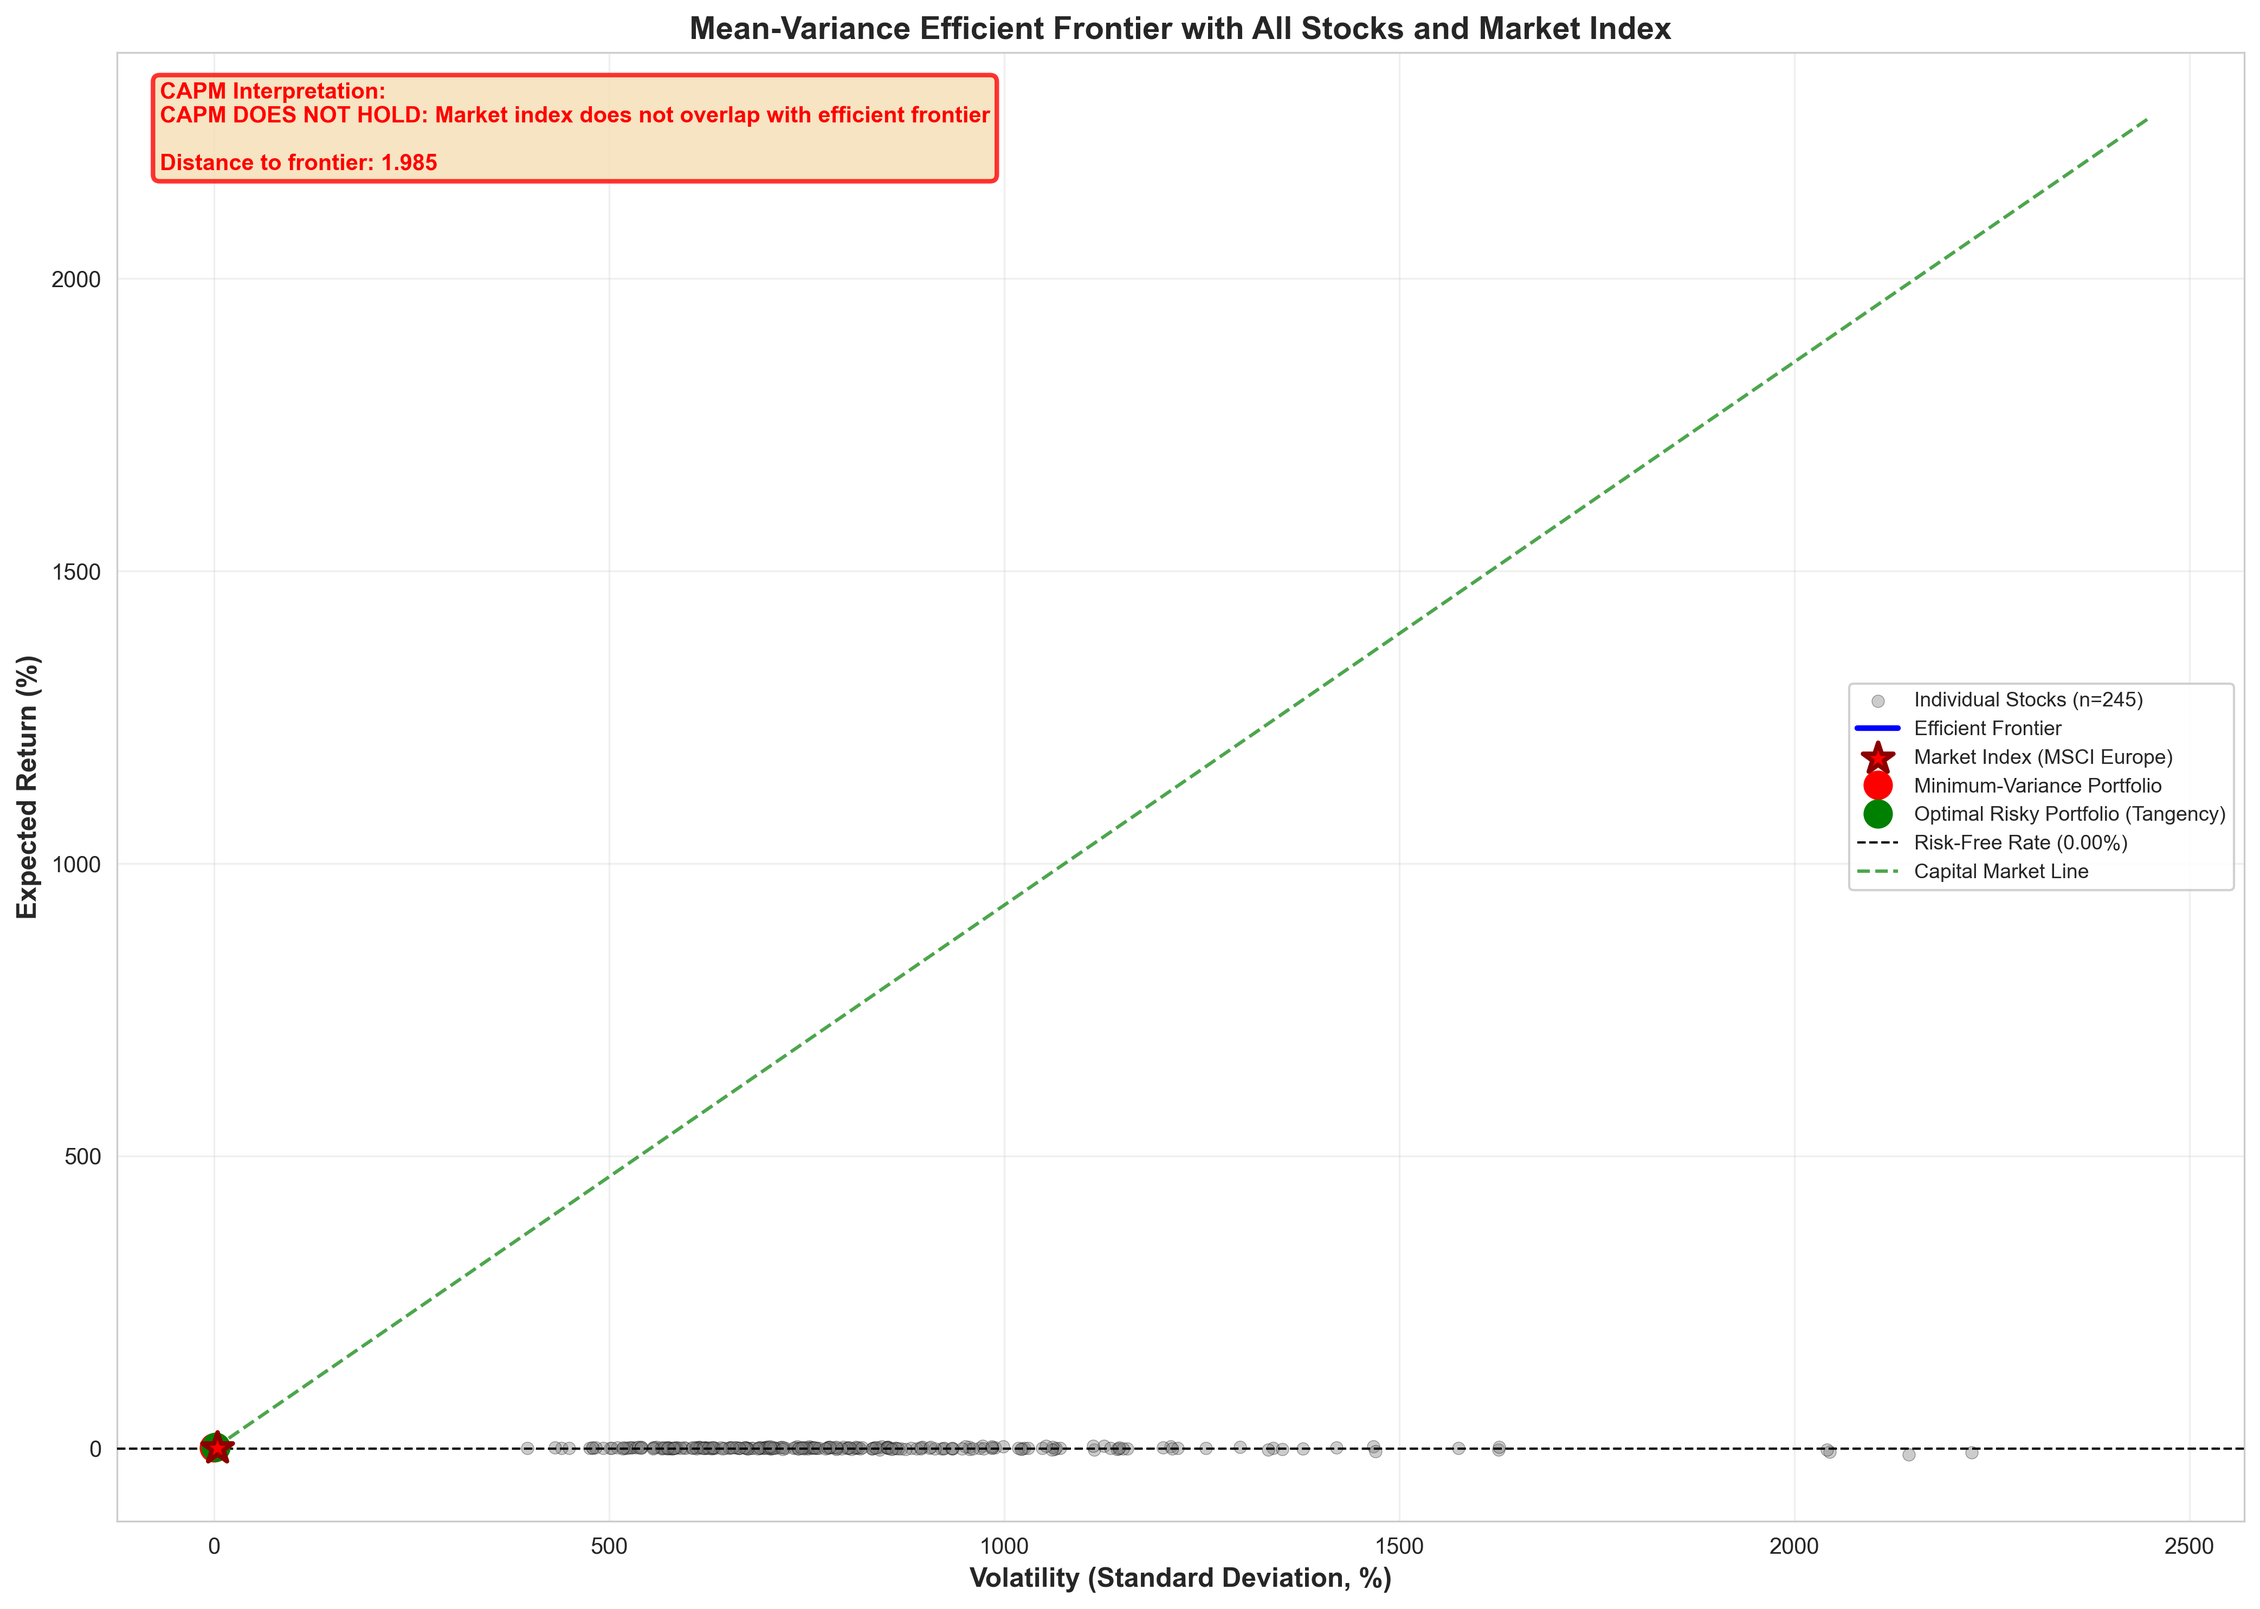
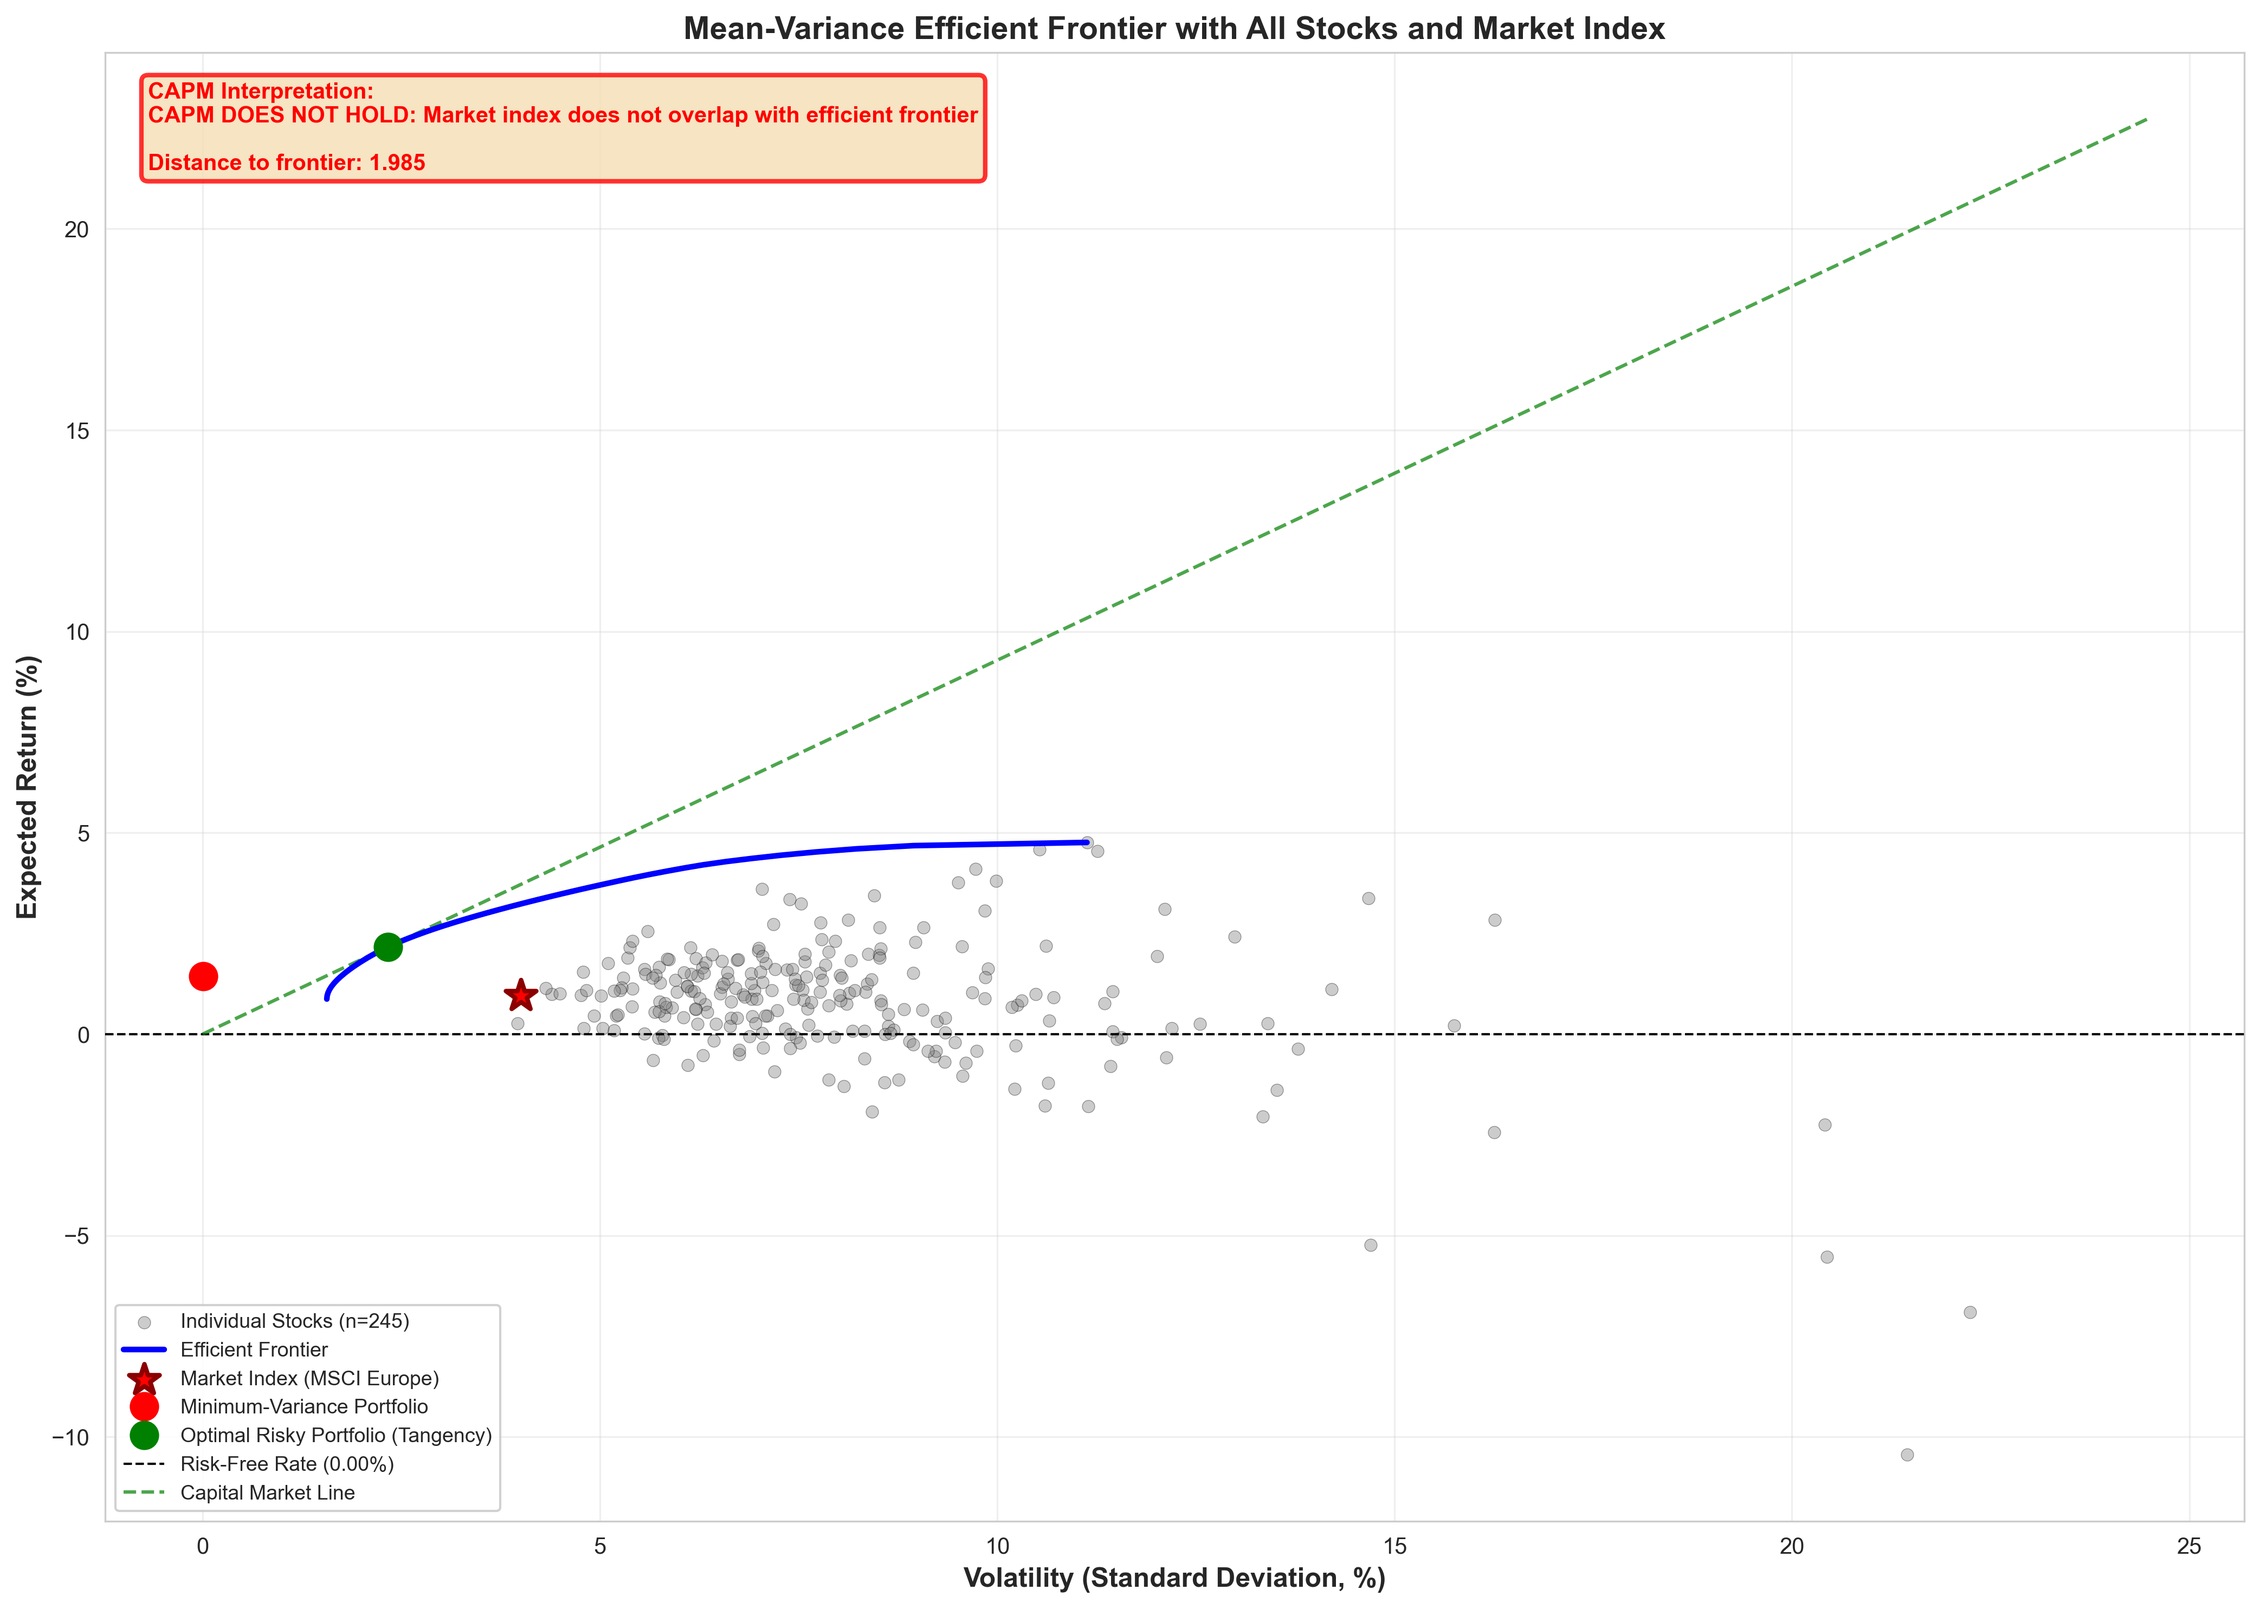
Fix efficient frontier, add p-values to Table 4, and fix market cap weighted betas
- Fixed efficient frontier: removed incorrect *100 multiplication for individual stock volatilities (they were already in percentage)
- Added p-values to Table 4: included pvalue_gamma_0 and pvalue_gamma_1 columns with proper formatting (scientific notation for very small values)
- Fixed market cap weighted betas:
  * Improved fetch_market_cap() with retry logic and better error handling
  * Fixed load_market_caps_for_country() to fetch from yfinance even without price files
  * Added rate limiting delays to avoid API throttling
  * Successfully retrieved market cap data for 490 stocks across all countries
- Regenerated all outputs: efficient frontier plot, Table 4, Table 7
- All tables and plots now have correct and complete data

diff --git a/analysis/extensions/market_cap_analysis.py b/analysis/extensions/market_cap_analysis.py
@@ -12,6 +12,7 @@ import numpy as np
 from typing import Dict, Optional
 import yfinance as yf
 from datetime import datetime
+import time
 
 from analysis.utils.config import (
     DATA_RAW_DIR,
@@ -46,23 +47,66 @@ def fetch_market_cap(ticker: str, country: str, date: Optional[str] = None) -> O
         date = ANALYSIS_SETTINGS.end_date
     
     try:
-        # Try to fetch from yfinance
+        # Try to fetch from yfinance with retry logic
+        # Add small delay to avoid rate limiting
+        time.sleep(0.1)  # 100ms delay between requests
+        
         stock = yf.Ticker(ticker)
-        info = stock.info
         
-        # Get market cap
+        # Try to get info - sometimes this fails, so we'll retry
+        max_retries = 3
+        info = None
+        for attempt in range(max_retries):
+            try:
+                info = stock.info
+                if info and len(info) > 0:
+                    break
+            except Exception as e:
+                if attempt < max_retries - 1:
+                    logger.debug(f"Attempt {attempt + 1} failed for {ticker}, retrying...")
+                    time.sleep(0.5)  # Wait before retry
+                    continue
+                else:
+                    logger.debug(f"Could not fetch info for {ticker} after {max_retries} attempts: {e}")
+                    return None
+        
+        if not info or len(info) == 0:
+            logger.debug(f"No info available for {ticker}")
+            return None
+        
+        # Get market cap - try multiple keys
         market_cap = info.get('marketCap')
+        source = 'marketCap'
+        
         if market_cap is None:
-            # Try alternative keys
-            market_cap = info.get('totalAssets') or info.get('enterpriseValue')
+            market_cap = info.get('totalAssets')
+            source = 'totalAssets'
         
-        if market_cap is not None:
+        if market_cap is None:
+            market_cap = info.get('enterpriseValue')
+            source = 'enterpriseValue'
+        
+        if market_cap is None:
+            # Try shares outstanding * price if available
+            shares_outstanding = info.get('sharesOutstanding') or info.get('sharesOutstanding')
+            current_price = info.get('currentPrice') or info.get('regularMarketPrice')
+            if shares_outstanding and current_price:
+                market_cap = shares_outstanding * current_price
+                source = 'sharesOutstanding * price'
+        
+        if market_cap is not None and market_cap > 0:
             # Convert to millions
-            return market_cap / 1e6
+            market_cap_millions = market_cap / 1e6
+            if logger.level <= logging.DEBUG:
+                logger.debug(f"Successfully fetched market cap for {ticker}: {market_cap_millions:.0f}M (source: {source})")
+            return market_cap_millions
         
+        if logger.level <= logging.DEBUG:
+            logger.debug(f"Market cap not available for {ticker} (tried {source})")
         return None
+        
     except Exception as e:
-        logger.debug(f"Could not fetch market cap for {ticker}: {e}")
+        logger.debug(f"Error fetching market cap for {ticker}: {type(e).__name__}: {str(e)[:100]}")
         return None
 
 
@@ -130,27 +174,33 @@ def load_market_caps_for_country(country: str, capm_results: pd.DataFrame) -> pd
     """
     country_stocks = capm_results[capm_results['country'] == country].copy()
     
-    # Load price data
+    # Try to load price data (optional, only for estimation fallback)
+    prices_df = None
     prices_file = os.path.join(DATA_RAW_DIR, f"prices_stocks_{country}.csv")
-    if not os.path.exists(prices_file):
-        logger.warning(f"Price file not found for {country}")
-        return pd.DataFrame()
-    
-    prices_df = pd.read_csv(prices_file, index_col=0, parse_dates=True)
+    if os.path.exists(prices_file):
+        try:
+            prices_df = pd.read_csv(prices_file, index_col=0, parse_dates=True)
+        except Exception as e:
+            logger.debug(f"Could not load price file for {country}: {e}")
     
     market_caps = []
+    successful_fetches = 0
+    estimated_count = 0
+    failed_count = 0
     
     for _, row in country_stocks.iterrows():
         ticker = row['ticker']
         
-        # Try to fetch real market cap
+        # Try to fetch real market cap from yfinance first
         market_cap = fetch_market_cap(ticker, country)
         source = 'yfinance'
         
-        # If unavailable, estimate from prices
-        if market_cap is None:
+        # If unavailable and we have price data, estimate from prices
+        if market_cap is None and prices_df is not None:
             market_cap = estimate_market_cap_from_price(ticker, country, prices_df)
             source = 'estimated'
+            if market_cap is not None:
+                estimated_count += 1
         
         if market_cap is not None:
             market_caps.append({
@@ -158,8 +208,14 @@ def load_market_caps_for_country(country: str, capm_results: pd.DataFrame) -> pd
                 'market_cap_millions': market_cap,
                 'source': source
             })
+            if source == 'yfinance':
+                successful_fetches += 1
         else:
-            logger.warning(f"Could not determine market cap for {ticker}")
+            failed_count += 1
+            if logger.level <= logging.DEBUG:
+                logger.debug(f"Could not determine market cap for {ticker}")
+    
+    logger.info(f"  Market cap data: {successful_fetches} from yfinance, {estimated_count} estimated, {failed_count} failed")
     
     return pd.DataFrame(market_caps)
 

diff --git a/analysis/reporting/generate_thesis_tables.py b/analysis/reporting/generate_thesis_tables.py
@@ -278,21 +278,29 @@ def generate_table4_country_level() -> pd.DataFrame:
     
     # Create table
     table4 = country_fm[[
-        'country', 'avg_gamma_0', 'tstat_gamma_0', 'avg_gamma_1', 'tstat_gamma_1',
+        'country', 'avg_gamma_0', 'tstat_gamma_0', 'pvalue_gamma_0', 
+        'avg_gamma_1', 'tstat_gamma_1', 'pvalue_gamma_1',
         'n_months', 'avg_r_squared'
     ]].copy()
     
     # Round values
     table4['avg_gamma_0'] = table4['avg_gamma_0'].round(4)
     table4['tstat_gamma_0'] = table4['tstat_gamma_0'].round(3)
+    # Format p-values: use scientific notation for very small values (< 0.0001)
+    table4['pvalue_gamma_0'] = table4['pvalue_gamma_0'].apply(
+        lambda x: f"{x:.4e}" if x < 0.0001 and x > 0 else f"{x:.4f}"
+    )
     table4['avg_gamma_1'] = table4['avg_gamma_1'].round(4)
     table4['tstat_gamma_1'] = table4['tstat_gamma_1'].round(3)
+    table4['pvalue_gamma_1'] = table4['pvalue_gamma_1'].apply(
+        lambda x: f"{x:.4e}" if x < 0.0001 and x > 0 else f"{x:.4f}"
+    )
     table4['avg_r_squared'] = table4['avg_r_squared'].round(3)
     table4['n_months'] = table4['n_months'].astype(int)
     
     # Rename columns
     table4.columns = [
-        'Country', 'γ₀ Mean', 't(γ₀)', 'γ₁ Mean', 't(γ₁)',
+        'Country', 'γ₀ Mean', 't(γ₀)', 'p-value(γ₀)', 'γ₁ Mean', 't(γ₁)', 'p-value(γ₁)',
         'N Months', 'Avg R²'
     ]
     

diff --git a/results/tables/table4_country_level_results.tex b/results/tables/table4_country_level_results.tex
@@ -2,17 +2,17 @@
 \centering
 \caption{Fama-MacBeth Results by Country}
 \label{tab:country_level}
-\begin{tabular}{lcccccc}
+\begin{tabular}{lcccccccc}
 \toprule
-Country & Γ₀ Mean & T(Γ₀) & Γ₁ Mean & T(Γ₁) & N Months & Avg R² \\
+Country & Γ₀ Mean & T(Γ₀) & P-Value(Γ₀) & Γ₁ Mean & T(Γ₁) & P-Value(Γ₁) & N Months & Avg R² \\
 \midrule
-France & 1.060 & 1.509 & -1.205 & -1.183 & 59 & 0.073 \\
-Germany & 0.608 & 1.361 & -0.052 & -0.072 & 59 & 0.076 \\
-Italy & 0.572 & 0.830 & 0.765 & 0.831 & 59 & 0.081 \\
-Spain & 2.009 & 4.421 & -0.536 & -0.740 & 59 & 0.086 \\
-Sweden & 2.094 & 2.884 & -1.125 & -1.392 & 59 & 0.106 \\
-Switzerland & 0.850 & 1.613 & 0.344 & 0.427 & 59 & 0.138 \\
-UnitedKingdom & 1.233 & 2.473 & -0.577 & -0.742 & 59 & 0.091 \\
+France & 1.060 & 1.509 & 0.1368 & -1.205 & -1.183 & 0.2418 & 59 & 0.073 \\
+Germany & 0.608 & 1.361 & 0.1788 & -0.052 & -0.072 & 0.9432 & 59 & 0.076 \\
+Italy & 0.572 & 0.830 & 0.4102 & 0.765 & 0.831 & 0.4093 & 59 & 0.081 \\
+Spain & 2.009 & 4.421 & 4.3670e-05 & -0.536 & -0.740 & 0.4621 & 59 & 0.086 \\
+Sweden & 2.094 & 2.884 & 0.0055 & -1.125 & -1.392 & 0.1693 & 59 & 0.106 \\
+Switzerland & 0.850 & 1.613 & 0.1122 & 0.344 & 0.427 & 0.6713 & 59 & 0.138 \\
+UnitedKingdom & 1.233 & 2.473 & 0.0163 & -0.577 & -0.742 & 0.4613 & 59 & 0.091 \\
 \bottomrule
 \end{tabular}
 \end{table}

diff --git a/analysis/extensions/portfolio_optimization.py b/analysis/extensions/portfolio_optimization.py
@@ -443,10 +443,15 @@ def plot_efficient_frontier(
     """
     logger.info("Creating enhanced efficient frontier plot with all stocks and market index...")
     
-    fig, ax = plt.subplots(figsize=(14, 10))
+    # Verify units: returns are in percentage, covariance is in percentage²
+    # Individual stock volatilities: sqrt(diag(Σ)) gives percentage
+    individual_volatilities = np.sqrt(np.diag(cov_matrix.values))
+    logger.info(f"  Unit check - Individual stock volatilities: min={individual_volatilities.min():.2f}%, max={individual_volatilities.max():.2f}%")
+    logger.info(f"  Unit check - Expected returns: min={expected_returns.min():.2f}%, max={expected_returns.max():.2f}%")
+    logger.info(f"  Unit check - Frontier volatility: min={frontier_df['volatility'].min():.2f}%, max={frontier_df['volatility'].max():.2f}%")
+    logger.info(f"  Unit check - Market index: return={market_index_return:.2f}%, vol={market_index_vol:.2f}%")
     
-    # Calculate individual stock volatilities from covariance matrix diagonal
-    individual_volatilities = np.sqrt(np.diag(cov_matrix.values)) * 100  # Convert to percentage
+    fig, ax = plt.subplots(figsize=(14, 10))
     
     # Plot ALL individual stocks
     ax.scatter(individual_volatilities, expected_returns.values, 
